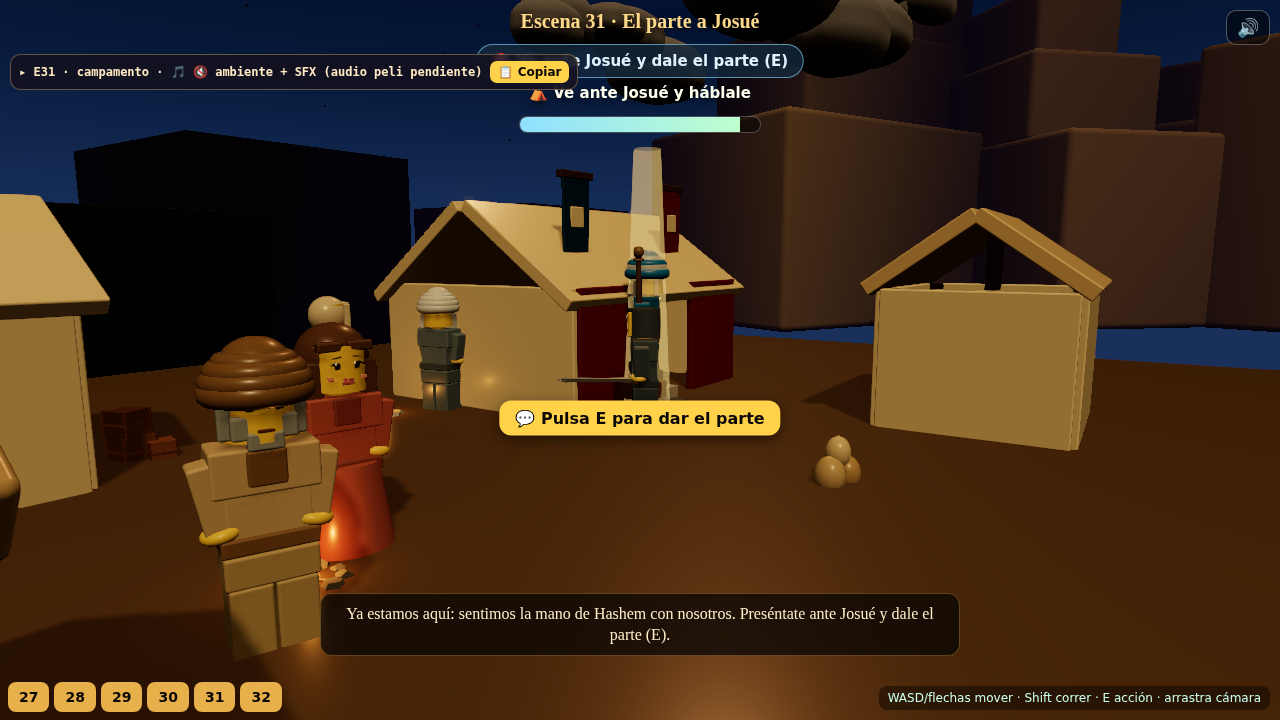
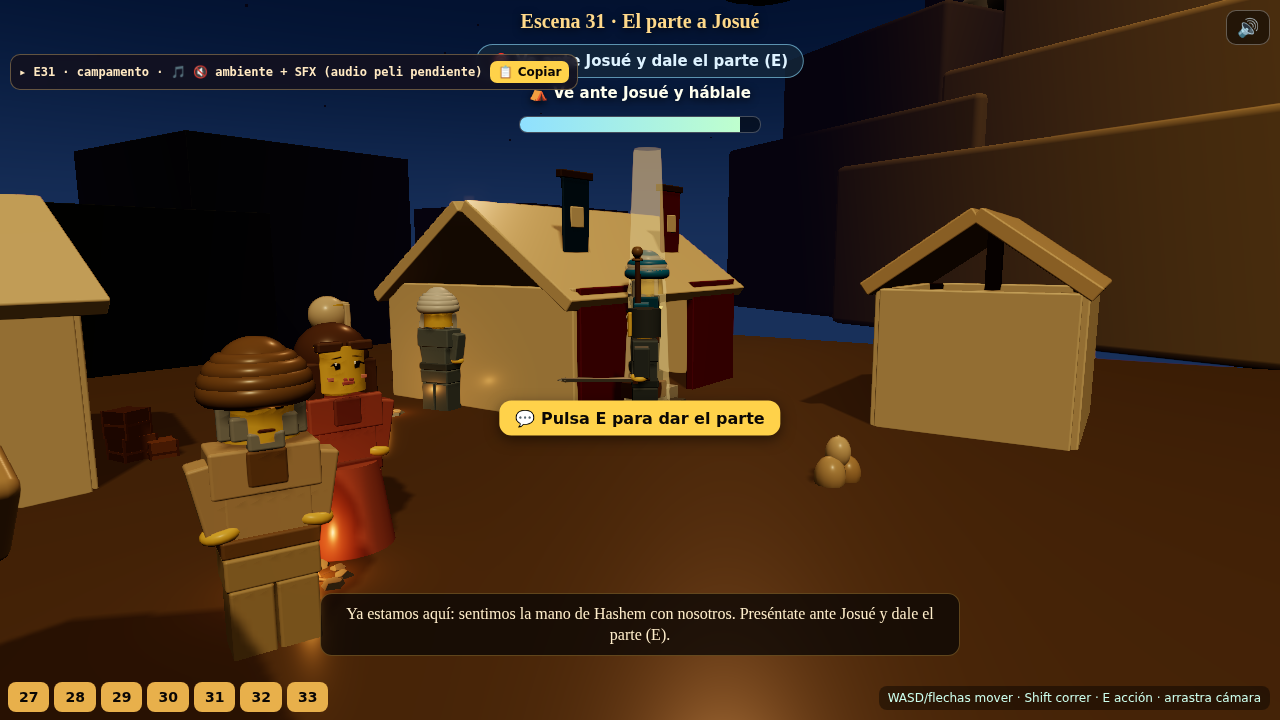
15-20 ciclo 4: esc33 "Preparativos de guerra" + aviso/duda al cerebro
- esc33 (biblia peli.json escena_32): 3 estaciones de preparacion — afilar espadas
  en la muela que gira con chispas, llenar el carcaj de flechas, formar la fila de
  escudos; E en cada una, baliza que salta. Remate por reloj de pared (fps-robusto).
- Comunicacion de ida y vuelta: aviso de deconflicto con 10-15 (escenas peli 31-33
  son mias) + duda de encaje 15-20 / 20-25 (Arca+aguas divididas es del 20-25).
- QA jugado (Playwright headless): esc29-33 completadas, 0 errores de consola.

Claude-Session: https://claude.ai/code/session_013fFFkfCW6KbozAWv3bUY7r

Changed region(s): [[0.375, 0.0, 0.8438, 0.4583], [0.8438, 0.0, 1.0, 0.5194], [0.2188, 0.9472, 0.2812, 1.0]]

diff --git a/mundo-ladrillos/src/scenes/min15/escena33_preparativos.ts b/mundo-ladrillos/src/scenes/min15/escena33_preparativos.ts
@@ -1,0 +1,190 @@
+import * as THREE from 'three';
+import { Min15Scene, SceneContext, SceneInstance } from './types';
+import { GuideBeacon } from './props/guide';
+import { buildGround, buildMoonNight, buildPine } from './props/wild';
+import { buildTent } from '../min05/props/BrickProps';
+import { buildBanner } from '../min05/props/NightAmbience';
+import { buildFirePit, buildCrateStack, buildSackPile } from '../../world/Clutter';
+import { createMinifigure, Minifigure, villagerSkin } from '../../characters/MinifigureFactory';
+import { GUARDIA_SKIN, YEHOSHUA_SKIN } from '../min05/skins';
+import { BrickPalette } from '../../materials/BrickPalette';
+
+/**
+ * ESCENA 33 (peli 19:02 / escena_32) — PREPARATIVOS DE GUERRA.
+ * Montaje enérgico de preparación del ejército de Israel (biblia peli.json
+ * escena_32): «soldados afilando espadas de bronce sobre piedras de amolar que
+ * giran, flechas ordenadas en el carcaj, guerreros marchando en formación con
+ * escudos». Todo en el campamento, de noche cálida.
+ *
+ * MINI-JUEGO (preparar): el niño recorre las TRES estaciones de preparación y
+ * pulsa E en cada una para ponerla en marcha —la muela gira y saltan chispas, el
+ * carcaj se llena de flechas, la fila alza los escudos—. Con las tres listas, el
+ * ejército queda preparado para marchar. La baliza salta a la siguiente estación.
+ */
+type Station = { pos: { x: number; z: number }; done: boolean; kind: 'muela' | 'flechas' | 'escudos' };
+
+const STATIONS: Array<{ x: number; z: number; kind: Station['kind'] }> = [
+  { x: -8, z: -5, kind: 'muela' },
+  { x: 0, z: 7, kind: 'flechas' },
+  { x: 7, z: -5, kind: 'escudos' }
+];
+
+export const escena33: Min15Scene = {
+  id: 'm15_33_preparativos',
+  numero: 33,
+  mundo: 'campamento',
+  titulo: 'Preparativos de guerra',
+  subtitulo: '¡A preparar el ejército! Afila las espadas, llena los carcajes de flechas y forma la fila de escudos: pulsa E en cada estación.',
+  jugador: 'spy',
+  noche: true,
+  ambiente: 'night',
+  spawn: { x: -16, z: 0 },
+  objetivo: { tipo: 'ir_a', texto: 'Prepara las 3 estaciones de guerra (E)', target: { x: STATIONS[0].x, z: STATIONS[0].z }, radio: 2.4 },
+  exito: '¡Ejército preparado! Espadas afiladas, carcajes llenos y escudos en alto.',
+  camara: { yaw: 0, pitch: 0.42, dist: 27 },
+  intro: {
+    from: { x: -24, y: 12, z: 24 }, to: { x: -15, y: 7, z: 15 },
+    lookFrom: { x: 0, y: 2, z: 0 }, lookTo: { x: 6, y: 2, z: 0 }, seconds: 3.0
+  },
+
+  build(ctx: SceneContext): SceneInstance {
+    const group = new THREE.Group();
+    const P = ctx.plastic;
+
+    group.add(buildGround(P, 0x6a5334, 78, 56));
+    group.add(buildMoonNight(P));
+
+    // tienda de mando + estandartes al fondo, y tiendas satélite (Regla Nº1)
+    const bigTent = buildTent(P, BrickPalette.TAN, 12, 10, true);
+    bigTent.position.set(15, 0, -8); group.add(bigTent); ctx.addObstacle(15, -8, 6, 5);
+    const banA = buildBanner(P, BrickPalette.DARK_BLUE, 1.6, 4); banA.position.set(11.5, 5.2, -5); group.add(banA);
+    const banB = buildBanner(P, BrickPalette.DARK_RED, 1.6, 4); banB.position.set(18.5, 5.2, -5); group.add(banB);
+    const t2 = buildTent(P, BrickPalette.WARM_SAND, 8, 7, false); t2.position.set(-13, 0, -11); group.add(t2); ctx.addObstacle(-13, -11, 4, 3.5);
+    const t3 = buildTent(P, BrickPalette.SAND, 7, 6, false); t3.position.set(-15, 0, 10); group.add(t3); ctx.addObstacle(-15, 10, 3.5, 3);
+    group.add(buildCrateStack(P, { x: 11, z: 9, n: 3 })); ctx.addObstacle(11, 9, 1, 1);
+    group.add(buildSackPile(P, { x: -4, z: 11 })); ctx.addObstacle(-4, 11, 1, 1);
+    group.add(buildPine(P, -22, -6, 1.7)); group.add(buildPine(P, 22, -12, 1.6)); group.add(buildPine(P, -23, 13, 1.5));
+    group.add(buildFirePit(P, { x: -5, z: 2 }));
+    group.add(buildFirePit(P, { x: 5, z: -10 }));
+
+    // Josué supervisando desde su tarima
+    const yehoshua: Minifigure = createMinifigure(P, YEHOSHUA_SKIN);
+    yehoshua.root.position.set(15, 0, -2); yehoshua.root.rotation.y = -Math.PI / 2; yehoshua.root.scale.setScalar(1.08); group.add(yehoshua.root);
+
+    // ===== ESTACIÓN 1 · PIEDRA DE AMOLAR (muela que gira + chispas + soldado) =====
+    const s1 = new THREE.Group(); s1.position.set(STATIONS[0].x, 0, STATIONS[0].z); group.add(s1);
+    // banco
+    s1.add(new THREE.Mesh(new THREE.BoxGeometry(2.2, 0.5, 1.2), P.get(BrickPalette.BROWN)).translateY(1.2));
+    for (const sx of [-0.9, 0.9]) s1.add(new THREE.Mesh(new THREE.CylinderGeometry(0.12, 0.12, 1.2, 6), P.get(BrickPalette.DARK_BROWN)).translateX(sx).translateY(0.6));
+    // muela (disco vertical que gira)
+    const wheel = new THREE.Mesh(new THREE.CylinderGeometry(0.7, 0.7, 0.24, 20), P.get(BrickPalette.DARK_GRAY));
+    wheel.rotation.z = Math.PI / 2; wheel.position.set(0, 1.9, 0); s1.add(wheel);
+    // espada apoyada
+    const sword = new THREE.Mesh(new THREE.BoxGeometry(0.12, 0.1, 1.6), P.get(BrickPalette.SILVER)); sword.position.set(0.5, 2.0, 0.2); s1.add(sword);
+    const smith = createMinifigure(P, villagerSkin(2)); smith.root.position.set(0, 0, 1.2); smith.root.rotation.y = Math.PI; s1.add(smith.root);
+    // chispas (emisivas, sin luz): ocultas hasta activar
+    const sparkN = 24, spGeo = new THREE.BufferGeometry(), spPos = new Float32Array(sparkN * 3);
+    for (let i = 0; i < sparkN; i++) { spPos[i * 3] = 0; spPos[i * 3 + 1] = 1.9; spPos[i * 3 + 2] = 0; }
+    spGeo.setAttribute('position', new THREE.BufferAttribute(spPos, 3));
+    const sparks = new THREE.Points(spGeo, new THREE.PointsMaterial({ color: 0xffd24a, size: 0.14, transparent: true, opacity: 0.95, depthWrite: false }));
+    (sparks.material as THREE.PointsMaterial).toneMapped = false; sparks.visible = false; s1.add(sparks);
+    const sparkV: THREE.Vector3[] = Array.from({ length: sparkN }, () => new THREE.Vector3());
+
+    // ===== ESTACIÓN 2 · CARCAJ DE FLECHAS (se llena al activar) =====
+    const s2 = new THREE.Group(); s2.position.set(STATIONS[1].x, 0, STATIONS[1].z); group.add(s2);
+    s2.add(new THREE.Mesh(new THREE.CylinderGeometry(0.5, 0.6, 1.6, 14), P.get(BrickPalette.DARK_BROWN)).translateY(0.8)); // aljaba
+    const arrows: THREE.Mesh[] = [];
+    for (let i = 0; i < 7; i++) {
+      const a = new THREE.Group();
+      a.add(new THREE.Mesh(new THREE.CylinderGeometry(0.04, 0.04, 1.8, 5), P.get(0xcaa15e)).translateY(0.9));
+      a.add(new THREE.Mesh(new THREE.ConeGeometry(0.09, 0.2, 5), P.get(BrickPalette.SILVER)).translateY(1.85));
+      const fl = new THREE.Mesh(new THREE.BoxGeometry(0.02, 0.24, 0.24), P.get(BrickPalette.RED)); fl.position.y = 0.15; a.add(fl);
+      a.position.set((i % 3 - 1) * 0.18, 1.2, (Math.floor(i / 3) - 1) * 0.18); a.rotation.z = (i % 3 - 1) * 0.12;
+      (a as any).visible = false; s2.add(a); arrows.push(a as unknown as THREE.Mesh);
+    }
+    const fletcher = createMinifigure(P, villagerSkin(5)); fletcher.root.position.set(1.4, 0, 0.4); fletcher.root.rotation.y = -Math.PI / 2; s2.add(fletcher.root);
+
+    // ===== ESTACIÓN 3 · FILA DE ESCUDOS (soldados alzan escudos al activar) =====
+    const s3 = new THREE.Group(); s3.position.set(STATIONS[2].x, 0, STATIONS[2].z); group.add(s3);
+    const shieldSoldiers: Array<{ fig: Minifigure; shield: THREE.Mesh }> = [];
+    for (let i = 0; i < 3; i++) {
+      const fig = createMinifigure(P, GUARDIA_SKIN); fig.root.position.set((i - 1) * 1.5, 0, 0); fig.root.rotation.y = -Math.PI / 2; s3.add(fig.root);
+      const shield = new THREE.Mesh(new THREE.CylinderGeometry(0.6, 0.6, 0.14, 16), P.get(BrickPalette.GOLD));
+      shield.rotation.x = Math.PI / 2; shield.position.set((i - 1) * 1.5 - 0.9, 1.8, 0.2); s3.add(shield);
+      shieldSoldiers.push({ fig, shield });
+    }
+
+    const stations: Station[] = STATIONS.map((s) => ({ pos: { x: s.x, z: s.z }, done: false, kind: s.kind }));
+    const beacon = new GuideBeacon(STATIONS[0].x, STATIONS[0].z, { action: true });
+    group.add(beacon.group);
+
+    ctx.scene.add(group);
+
+    let idx = 0, allT0 = 0;
+    let doneFlag = false;
+    const R = escena33.objetivo.radio ?? 2.4;
+
+    return {
+      group,
+      update(dt, t, player): void {
+        beacon.update(t);
+        yehoshua.root.rotation.y = -Math.PI / 2 + Math.sin(t * 0.7) * 0.12; yehoshua.update(dt, false);
+
+        // Estación 1: la muela gira siempre que esté lista; chispas mientras activa
+        if (stations[0].done) {
+          wheel.rotation.x += dt * 14;
+          smith.update(dt, true, 0.5);
+          sparks.visible = true;
+          const sp = sparks.geometry.attributes.position as THREE.BufferAttribute;
+          for (let i = 0; i < sparkN; i++) {
+            if (sparkV[i].lengthSq() < 0.001 || sp.getY(i) < 0.2) {
+              sp.setXYZ(i, 0.4, 1.9, 0.1); sparkV[i].set((Math.random() - 0.2) * 3, Math.random() * 2, (Math.random() - 0.5) * 1.5);
+            }
+            sparkV[i].y -= dt * 8;
+            sp.setXYZ(i, sp.getX(i) + sparkV[i].x * dt, sp.getY(i) + sparkV[i].y * dt, sp.getZ(i) + sparkV[i].z * dt);
+          }
+          sp.needsUpdate = true;
+        }
+        // Estación 3: pequeño balanceo de escudos cuando está lista
+        if (stations[2].done) for (const s of shieldSoldiers) { s.shield.position.y = 1.9 + Math.sin(t * 3) * 0.05; s.fig.update(dt, false); }
+
+        // recorrer estaciones
+        if (idx < stations.length) {
+          const st = STATIONS[idx];
+          const near = Math.hypot(player.x - st.x, player.z - st.z) < R;
+          if (near && ctx.wantsInteract()) {
+            stations[idx].done = true;
+            if (st.kind === 'flechas') arrows.forEach((a) => (a.visible = true));
+            ctx.sound.pickup?.();
+            idx++;
+            if (idx < stations.length) beacon.setPos(STATIONS[idx].x, STATIONS[idx].z);
+            else { beacon.visible = false; allT0 = t; } // marca de reloj de pared
+          }
+        } else if (t - allT0 > 0.9) {
+          doneFlag = true; // completado por reloj de pared (fps-independiente)
+        }
+      },
+      status(): string | null {
+        if (idx < stations.length) {
+          const labels = { muela: 'afila las espadas', flechas: 'llena el carcaj', escudos: 'forma los escudos' };
+          return `⚒ Prepara: ${idx}/${stations.length} · ahora ${labels[STATIONS[idx].kind]}`;
+        }
+        return doneFlag ? '✅ ¡Ejército preparado!' : '🛡 ¡Todo listo para marchar!';
+      },
+      hud() {
+        const p = ctx.getPlayer();
+        if (idx < stations.length) {
+          const st = STATIONS[idx];
+          const near = Math.hypot(p.x - st.x, p.z - st.z) < R;
+          return { prompt: near ? '⚒ Pulsa E para preparar' : undefined, progress: idx / stations.length };
+        }
+        return { progress: 1 };
+      },
+      isDone(): boolean { return doneFlag; },
+      dispose(): void {
+        beacon.dispose();
+        group.traverse((obj) => { const m = obj as THREE.Mesh; if (m.geometry) m.geometry.dispose(); });
+      }
+    };
+  }
+};

diff --git a/mundo-ladrillos/src/scenes/min15/registry.ts b/mundo-ladrillos/src/scenes/min15/registry.ts
@@ -5,6 +5,7 @@ import { escena29 } from './escena29_monte';
 import { escena30 } from './escena30_cruce';
 import { escena31 } from './escena31_reporte';
 import { escena32 } from './escena32_ejercito';
+import { escena33 } from './escena33_preparativos';
 
 /**
  * Escenas del tramo MINUTO 15–20 ("El cordón rojo y la huida"), en orden jugable.
@@ -23,15 +24,15 @@ import { escena32 } from './escena32_ejercito';
  *   30  CRUCE de vuelta del Jordán (piedras)      🎮 huida 2/3 · peli ~10:01
  *   31  el PARTE a Josué (diálogo)                🎮 huida 3/3 · peli 10:42–11:13
  *   32  Josué manda reunir al ejército            🎮 reunir    · peli 11:27–11:37
- *   33  montaje de PREPARATIVOS de guerra         — pendiente  · peli ~14:32
- *   34  los SHOFAROT del Cohén (gag del carnero)  — pendiente  · peli 12:16–12:39 (taller)
+ *   33  PREPARATIVOS de guerra (afilar/flechas/escudos) 🎮 · peli 19:02 (escena_32)
+ *   34  los SHOFAROT del Cohén (gag del carnero)  — pendiente  · peli 20:14 (escena_33, taller)
  *
  * HITO 2 (huida): esconderse → cruzar → parte a Josué (esc 29–31). A partir de ahí,
  * los preparativos: esc32 reunir al ejército (hecho), y quedan esc33/34. El LEAD las
  * integra en el StoryEngine igual que min05/min10.
  */
 export const MIN15_SCENES: Min15Scene[] = [
-  escena27, escena28, escena29, escena30, escena31, escena32
+  escena27, escena28, escena29, escena30, escena31, escena32, escena33
 ];
 
 export function sceneById(id: string): Min15Scene | undefined {

diff --git a/mundo-ladrillos/coordinacion/min15-20.md b/mundo-ladrillos/coordinacion/min15-20.md
@@ -221,6 +221,30 @@ solo sumo las fogatas cálidas justas. Bounds por escena (el niño no rodea el e
 gag del carnero). Y engancho `ctx.say` en cuanto el LEAD lo publique (ahora uso el bocadillo
 local de stopgap). **Cerebro:** si ves otra prioridad o algún ajuste, déjamelo en "▶ PARA 15-20".
 
+## ❓ DUDA / AVISO PARA EL CEREBRO (comunicación de ida y vuelta) · 27-jul
+Leído el tablón entero. Nada me bloquea; sigo tu orden "▶ PARA 15–20" (huida ✅ + más
+escenas con vida, listón 0–5, Regla Nº1). Dos cosas para ti:
+
+1. **AVISO (deconflicto):** estoy construyendo, según `peli.json`, las **escenas de peli
+   31 (reunir ejército → mi esc32) · 32 (preparativos → mi esc33) · 33 (shofarot taller →
+   mi esc34)**. La transcripción las agrupa bajo "10–15", pero la biblia y la BIBLIA del
+   proyecto las ponen en MI tramo (el juego reordena). **Confirmo que son mías y no del
+   10–15** (ellos = posada de Rahab, esc 17–25). Si el 10–15 las tocara, avísame y deconflicto.
+
+2. **DUDA DE ENCAJE (no la decido yo):** ¿dónde corto el 15–20? Mi plan: **acabar en esc34
+   (taller de shofarot, gag del carnero)** y dejar la **escena_34 de la peli (Arca de la
+   Alianza + aguas divididas del Jordán)** al **tramo 20–25** (no la toco, como el clímax de
+   la muralla es del 25–29). ¿Correcto? ¿Y quieres que cierre mi tramo con un **"adelanto/
+   próximamente"** al estilo del 0–5 (usando una frase real de la peli), o corto limpio en
+   los shofarot? **Sigo con esc34 salvo que me digas otra cosa** (no me bloqueo).
+
+### Ciclo 4 · 08:03 CEST (27-Jul) — esc33 «Preparativos de guerra» ✅
+Mini-juego NUEVO de **preparar** (biblia `peli.json` escena_32): 3 estaciones —**afilar
+espadas** en la muela que gira con chispas, **llenar el carcaj** de flechas, **formar la fila
+de escudos**—; pulsas E en cada una y la baliza salta a la siguiente. Con las 3, ejército
+preparado (remate por reloj de pared → fps-robusto). Reutilizo camp/Clutter/wild/Minifigure.
+QA jugado: **esc29–33 ✅, 0 errores.** Captura `escena-33-preparativos`.
+
 ### Ciclo 3 · 07:43 CEST (27-jul) — pase de FIDELIDAD con las referencias ✅
 Cogidas las `referencias/` (peli.json + transcripcion.md + frames) — **privadas, NO las
 commiteo** (solo consulta). Aplicado a MI carpeta: (1) **diálogos/subtítulos REALES** de la
